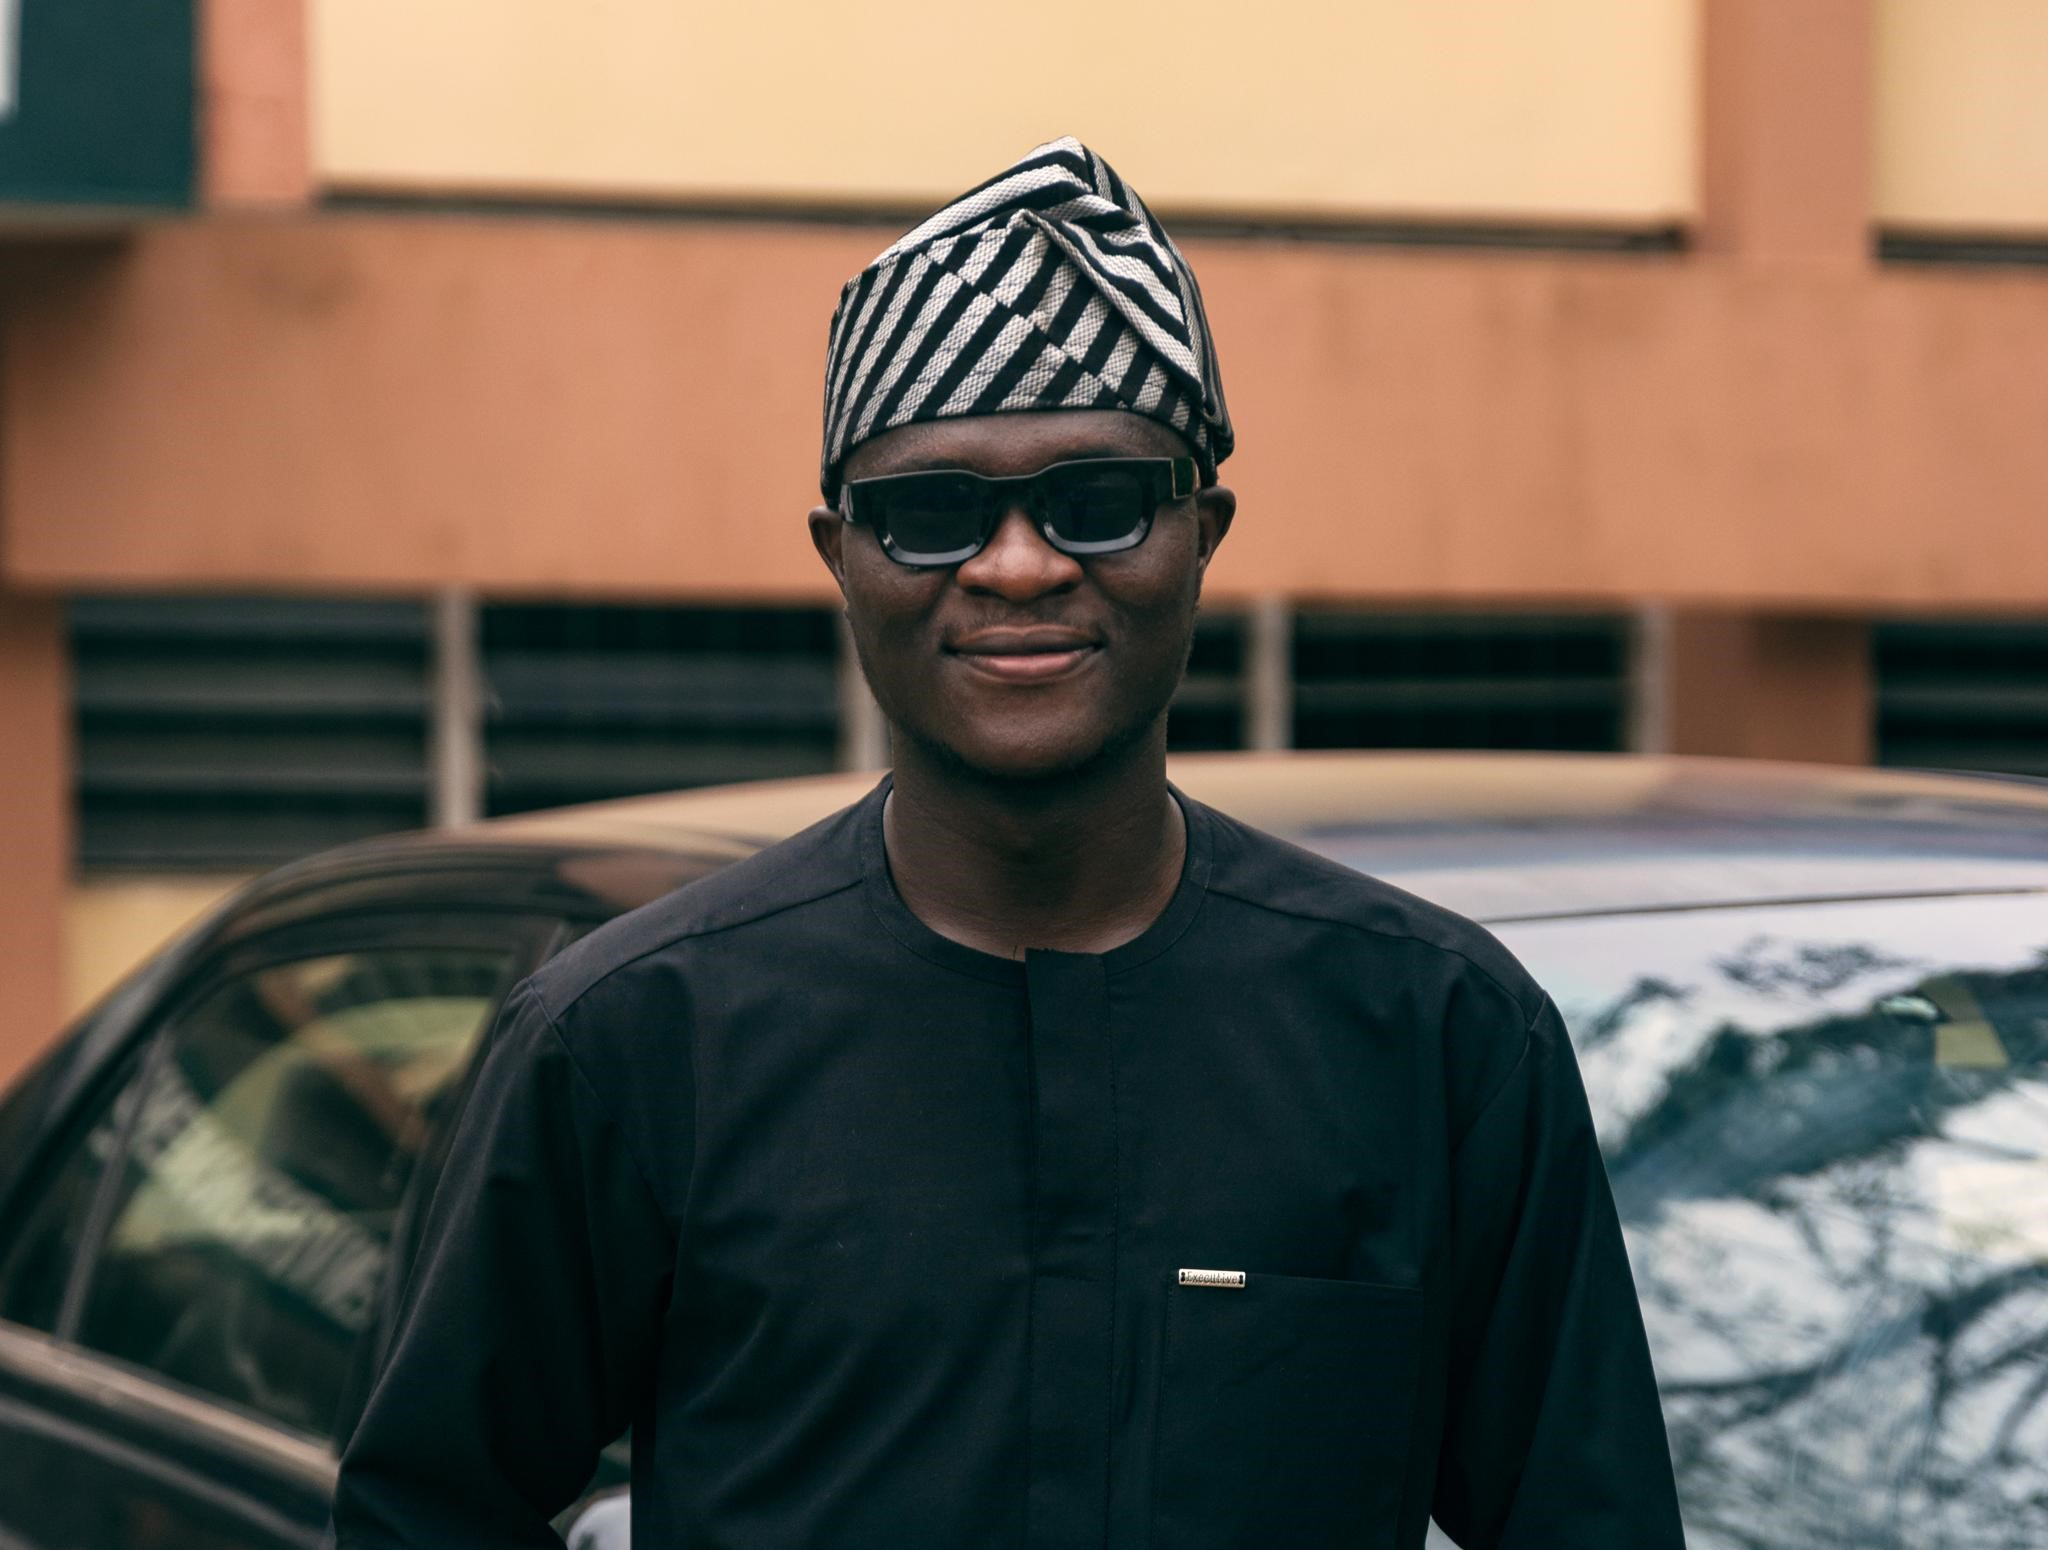
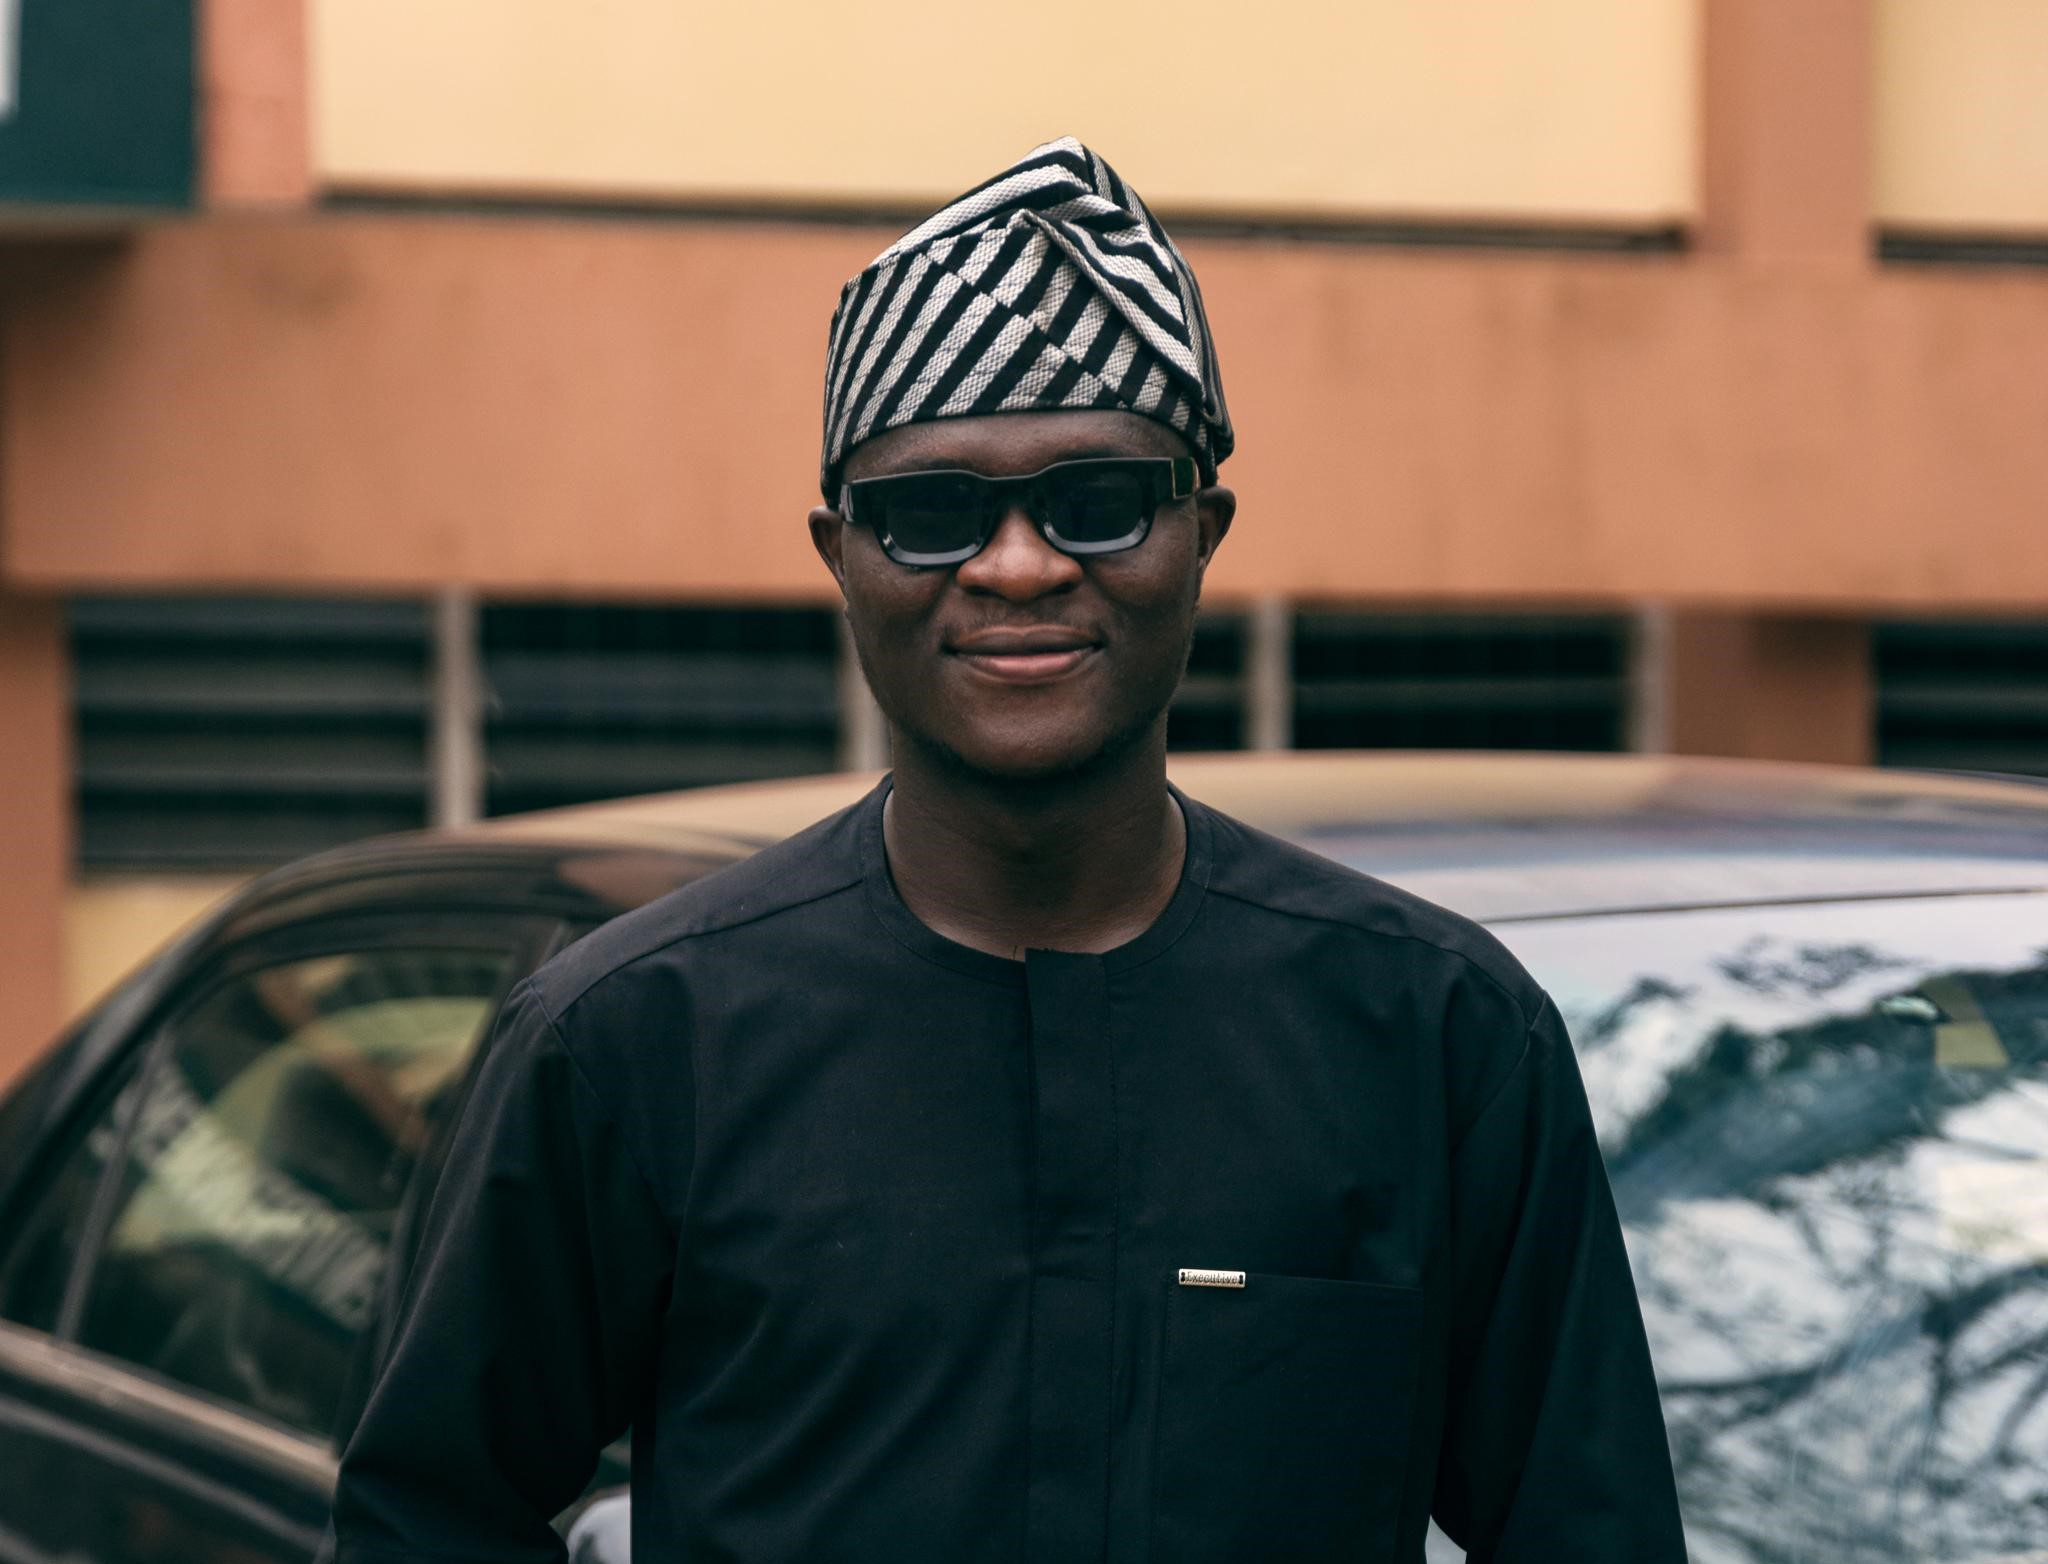
update4

diff --git a/src/components/Hero.tsx b/src/components/Hero.tsx
@@ -13,7 +13,7 @@ const Hero: React.FC = () => {
       description: "Turning visions into successful products",
     },
     {
-      image: "/images/PHOTO-2025-05-13-11-10-55.jpg",
+      image: "/images/PHOTO-2025-05-13-11-10-50.jpg",
 
       // "https://i.postimg.cc/m2BTQmhm/PHOTO-2025-05-13-11-10-54.jpg?auto=compress&cs=tinysrgb&w=1260&h=750&dpr=1",
       title: "Agile Project Leadership",
@@ -84,15 +84,6 @@ const Hero: React.FC = () => {
           >
             Hello, I'm <span className="font-bold">Abdulafis Olanrewaju </span>.
             A passionate Product Manager with 2+ years of experience{" "}
-            {/* Accomplished product manager with over two years of experience
-            delivering innovative, user-centric solutions and driving measurable
-            results. Spearheaded the development of a student-focused e-commerce
-            platform specializing in buying and selling, achieving significant
-            market penetration. Leveraged project management expertise to lead
-            initiatives, including organizing high-impact events with 2,500+
-            attendees and securing ₦7 million in sponsorships. Adept at aligning
-            cross functional teams, managing timelines, and exceeding stakeholder
-            expectations through a results-driven approach. */}
             {slides[currentSlide].description.toLowerCase()}.
           </motion.p>
           <motion.div

diff --git a/src/components/Header.tsx b/src/components/Header.tsx
@@ -42,7 +42,17 @@ const Header: React.FC = () => {
           className="flex items-center"
         >
           <a href="#" className="text-2xl font-bold text-primary-500">
-            Abdulafis<span className="text-secondary-500"> O.</span>
+            {" "}
+            <span
+              className={`font-display text-2xl font-semibold ${
+                isScrolled
+                  ? "text-2xl font-bold text-primary-500"
+                  : "text-white"
+              }`}
+            >
+              Abdulafis
+            </span>
+            <span className="text-secondary-500"> O.</span>
           </a>
         </motion.div>
 
@@ -60,7 +70,7 @@ const Header: React.FC = () => {
               className={`text-sm font-medium transition-colors duration-200 ${
                 isScrolled
                   ? "text-gray-800 hover:text-primary-500"
-                  : "text-gray-800 hover:text-primary-500"
+                  : "text-white hover:text-primary-500"
               }`}
             >
               {link.name}

diff --git a/src/components/About.tsx b/src/components/About.tsx
@@ -118,9 +118,7 @@ const About: React.FC = () => {
                   size={20}
                 />
                 <div>
-                  <h5 className="font-medium">
-                    Project Management Professional (PMP)
-                  </h5>
+                  <h5 className="font-medium">Product Management</h5>
                   <p className="text-sm text-gray-600">Grazac Academy, 2024</p>
                 </div>
               </div>
